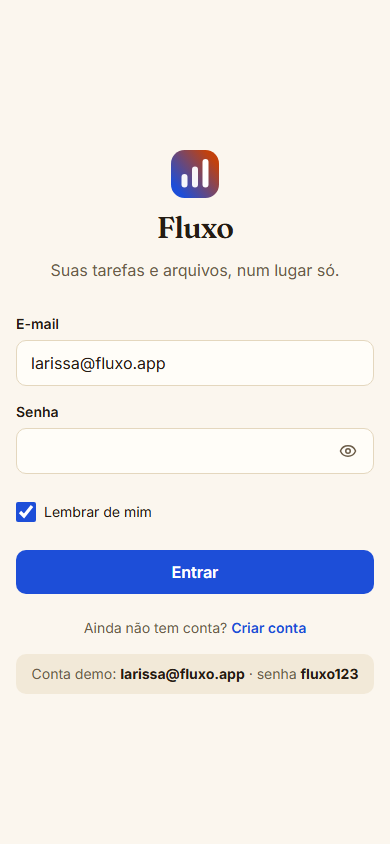
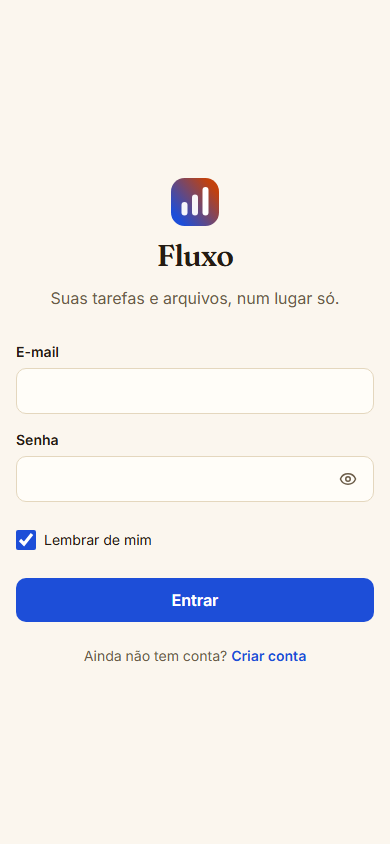
Remove dados de exemplo fixos; prepara bootstrap para banco real
- Tira seed.ts/samplePdf.ts: nada de tarefas, etiquetas ou conta demo
  pré-carregadas. Cada conta nova começa com o quadro vazio.
- AuthContext.signup cria só as 3 colunas padrão (estrutura da UI, não
  dado de exemplo) via boardApi.ensureDefaultColumns.
- LoginPage sem e-mail pré-preenchido nem aviso de conta demo.
- Testes e capturas de tela atualizados para criar conta e tarefas pela
  própria interface, em vez de depender do seed removido.

Changed region(s): [[0.0308, 0.154, 0.9846, 0.8318], [0.8615, 0.5237, 0.9231, 0.5853]]

diff --git a/tests/screenshots.spec.ts b/tests/screenshots.spec.ts
@@ -1,18 +1,61 @@
-import { test, chromium } from '@playwright/test'
+import { test, chromium, type Page } from '@playwright/test'
 import path from 'node:path'
 
 const SHOTS_DIR = path.join(process.cwd(), 'docs', 'screenshots')
 
-async function login(page: import('@playwright/test').Page) {
-  await page.goto('/entrar')
-  await page.getByLabel('E-mail').fill('larissa@fluxo.app')
-  await page.locator('input[type="password"]').fill('fluxo123')
-  await page.getByRole('button', { name: 'Entrar' }).click()
+// Não há mais conta nem dados de exemplo fixos — o teste cria uma conta e
+// preenche o quadro pela própria interface, pra gerar capturas realistas.
+async function signup(page: Page) {
+  await page.goto('/criar-conta')
+  const unique = Date.now()
+  await page.getByLabel('Nome').fill('Larissa Menezes')
+  await page.getByLabel('E-mail').fill(`larissa-${unique}@fluxo.app`)
+  await page.getByLabel('Senha', { exact: true }).fill('fluxo123')
+  await page.getByRole('button', { name: 'Criar conta' }).click()
   await page.waitForURL('**/')
-  await page.waitForTimeout(500)
 }
 
-test('captura telas mobile', async () => {
+async function createTask(page: Page, title: string) {
+  await page.goto('/quadro')
+  await page.waitForTimeout(200)
+  await page.getByRole('button', { name: 'Nova tarefa' }).click()
+  await page.getByLabel('Título', { exact: true }).fill(title)
+  await page.getByRole('button', { name: 'Criar tarefa' }).click()
+  await page.waitForURL('**/tarefa/**')
+  await page.getByRole('button', { name: 'Fechar', exact: true }).waitFor({ state: 'visible' })
+}
+
+// Fechar clicando no botão (ação direta e determinística) em vez de simular
+// Esc: logo após a navegação, o listener de teclado do Modal pode ainda não
+// ter sido registrado, então Esc às vezes chega cedo demais — comportamento
+// coberto à parte em tests/functional.spec.ts, não precisa ser reexercitado aqui.
+async function closeTaskModal(page: Page) {
+  await page.getByRole('button', { name: 'Fechar', exact: true }).click()
+  await page.waitForURL('**/quadro')
+}
+
+async function seedBoardForScreenshots(page: Page) {
+  await createTask(page, 'Relatório AV1 de IHM')
+  await page.getByLabel('Adicionar item ao checklist').fill('Escrever introdução')
+  await page.getByLabel('Adicionar item', { exact: true }).click()
+  const buffer = Buffer.from('%PDF-1.4\n%%EOF')
+  await page.setInputFiles('input[type="file"]', {
+    name: 'relatorio-rascunho.pdf',
+    mimeType: 'application/pdf',
+    buffer,
+  })
+  await page.waitForTimeout(300)
+  await closeTaskModal(page)
+
+  await createTask(page, 'Estudar normalização (BD)')
+  await closeTaskModal(page)
+
+  await createTask(page, 'Atualizar planilha de chamados do estágio')
+  await closeTaskModal(page)
+}
+
+test('captura telas mobile', async ({}, testInfo) => {
+  testInfo.setTimeout(90000) // signup + criar 3 tarefas + anexo real demora mais que o padrão de 30s
   const browser = await chromium.launch()
   const context = await browser.newContext({ viewport: { width: 390, height: 844 } })
   const page = await context.newPage()
@@ -22,7 +65,8 @@ test('captura telas mobile', async () => {
   await page.waitForTimeout(400)
   await page.screenshot({ path: path.join(SHOTS_DIR, '01-entrar.png') })
 
-  await login(page)
+  await signup(page)
+  await seedBoardForScreenshots(page)
 
   // Tela 2: Início
   await page.goto('/')
@@ -35,12 +79,11 @@ test('captura telas mobile', async () => {
   await page.screenshot({ path: path.join(SHOTS_DIR, '03-quadro.png') })
 
   // Tela 4: Detalhes da tarefa (tela cheia no celular)
-  const taskButton = page.locator('button').filter({ hasText: 'Estudar normalização' }).first()
+  const taskButton = page.locator('button').filter({ hasText: 'Relatório AV1 de IHM' }).first()
   await taskButton.click()
   await page.waitForTimeout(500)
   await page.screenshot({ path: path.join(SHOTS_DIR, '04-detalhes.png') })
-  await page.keyboard.press('Escape')
-  await page.waitForTimeout(300)
+  await closeTaskModal(page)
 
   // Tela 5: Arquivos
   await page.goto('/arquivos')
@@ -55,12 +98,14 @@ test('captura telas mobile', async () => {
   await browser.close()
 })
 
-test('captura quadro desktop', async () => {
+test('captura quadro desktop', async ({}, testInfo) => {
+  testInfo.setTimeout(90000)
   const browser = await chromium.launch()
   const context = await browser.newContext({ viewport: { width: 1440, height: 900 } })
   const page = await context.newPage()
 
-  await login(page)
+  await signup(page)
+  await seedBoardForScreenshots(page)
   await page.goto('/quadro')
   await page.waitForTimeout(500)
   await page.screenshot({ path: path.join(SHOTS_DIR, '03b-quadro-desktop.png') })

diff --git a/src/features/auth/LoginPage.tsx b/src/features/auth/LoginPage.tsx
@@ -12,7 +12,7 @@ export function LoginPage() {
   const navigate = useNavigate()
   const { login } = useAuth()
 
-  const [email, setEmail] = useState('larissa@fluxo.app')
+  const [email, setEmail] = useState('')
   const [password, setPassword] = useState('')
   const [showPassword, setShowPassword] = useState(false)
   const [remember, setRemember] = useState(true)
@@ -91,10 +91,6 @@ export function LoginPage() {
           <Link to="/criar-conta" className="font-semibold text-primary hover:underline">
             Criar conta
           </Link>
-        </p>
-
-        <p className="mt-4 rounded-btn bg-column px-3.5 py-2.5 text-center text-sm text-text-muted">
-          Conta demo: <strong className="text-text">larissa@fluxo.app</strong> · senha <strong className="text-text">fluxo123</strong>
         </p>
       </div>
     </div>

diff --git a/src/features/board/boardApi.ts b/src/features/board/boardApi.ts
@@ -2,6 +2,23 @@ import { db } from '../../db/schema'
 
 const uid = () => crypto.randomUUID()
 
+const DEFAULT_COLUMNS = ['A fazer', 'Fazendo', 'Concluído']
+
+// Garante que o quadro tenha pelo menos as colunas padrão — isso é estrutura
+// da interface, não dado de exemplo, então não depende de nenhum seed fixo.
+export async function ensureDefaultColumns() {
+  const existing = await db.columns.count()
+  if (existing > 0) return
+  await db.columns.bulkAdd(
+    DEFAULT_COLUMNS.map((name, order) => ({
+      id: uid(),
+      name,
+      order,
+      wipLimit: name === 'Fazendo' ? 3 : null,
+    }))
+  )
+}
+
 export async function createColumn(name: string) {
   const count = await db.columns.count()
   await db.columns.add({ id: uid(), name: name.trim(), order: count, wipLimit: null })

diff --git a/tests/functional.spec.ts b/tests/functional.spec.ts
@@ -1,10 +1,13 @@
 import { test, expect } from '@playwright/test'
 
+// Não há mais conta demo fixa — cada execução de teste cria a sua própria conta local.
 async function login(page: import('@playwright/test').Page) {
-  await page.goto('/entrar')
-  await page.getByLabel('E-mail').fill('larissa@fluxo.app')
-  await page.locator('input[type="password"]').fill('fluxo123')
-  await page.getByRole('button', { name: 'Entrar' }).click()
+  await page.goto('/criar-conta')
+  const unique = Date.now()
+  await page.getByLabel('Nome').fill('Usuária de Teste')
+  await page.getByLabel('E-mail').fill(`teste-${unique}@fluxo.app`)
+  await page.getByLabel('Senha', { exact: true }).fill('senha123')
+  await page.getByRole('button', { name: 'Criar conta' }).click()
   await page.waitForURL('**/')
 }
 

diff --git a/src/features/auth/AuthContext.tsx b/src/features/auth/AuthContext.tsx
@@ -1,6 +1,7 @@
 import { createContext, useContext, useEffect, useState, type ReactNode } from 'react'
 import { db } from '../../db/schema'
 import { generateSalt, hashPassword, verifyPassword, setSession, getSession, clearSession } from '../../db/auth'
+import { ensureDefaultColumns } from '../board/boardApi'
 import type { User } from '../../db/types'
 
 interface AuthContextValue {
@@ -61,6 +62,7 @@ export function AuthProvider({ children }: { children: ReactNode }) {
     }
     await db.users.add(newUser)
     await db.settings.put({ id: 'app-settings', displayName: newUser.name, theme: 'claro', fontScale: 1, reduceMotion: false })
+    await ensureDefaultColumns()
     setUser(newUser)
     setSession(id, true)
     return { ok: true }

diff --git a/src/App.tsx b/src/App.tsx
@@ -1,20 +1,10 @@
-import { useEffect, useState } from 'react'
 import { BrowserRouter } from 'react-router-dom'
-import { seedIfNeeded } from './db/seed'
 import { AuthProvider } from './features/auth/AuthContext'
 import { ToastProvider } from './components/ToastProvider'
 import { SettingsEffects } from './features/settings/SettingsEffects'
 import { AppRoutes } from './routes'
 
 export function App() {
-  const [ready, setReady] = useState(false)
-
-  useEffect(() => {
-    seedIfNeeded().then(() => setReady(true))
-  }, [])
-
-  if (!ready) return null
-
   return (
     <BrowserRouter>
       <AuthProvider>

diff --git a/README.md b/README.md
@@ -32,16 +32,15 @@ npm run build
 npm run preview
 ```
 
-## Conta demo
+## Como começar
 
-| Campo | Valor |
-|---|---|
-| E-mail | `larissa@fluxo.app` |
-| Senha | `fluxo123` |
+Não existe mais conta nem dados de exemplo pré-carregados. Na primeira vez que alguém abre o app:
 
-Na primeira execução, o app semeia automaticamente essa conta, colunas (A fazer, Fazendo, Concluído), 4 etiquetas e ~10 tarefas de exemplo com prazos relativos à data atual.
+1. Toque em **Criar conta** e cadastre nome, e-mail e senha.
+2. O quadro nasce com as 3 colunas padrão (A fazer, Fazendo, Concluído) — sem tarefas, sem etiquetas.
+3. Dali em diante é só usar: criar tarefas, etiquetas e anexos é tudo manual, do jeito que fica no seu dispositivo de verdade.
 
-⚠ **Aviso de segurança:** a autenticação é local e feita só para fins do protótipo — a senha é armazenada como hash SHA-256 com salt (WebCrypto), nunca em texto puro, mas isso **não substitui** um sistema de autenticação real de produção.
+⚠ **Aviso de segurança:** a autenticação é local e feita só para fins do protótipo — a senha é armazenada como hash SHA-256 com salt (WebCrypto), nunca em texto puro, mas isso **não substitui** um sistema de autenticação real de produção. A troca para autenticação de verdade está planejada na seção [Próximos passos: Supabase](#próximos-passos-supabase-opcional-ainda-desligado).
 
 ## Capturas de tela
 
@@ -69,7 +68,7 @@ As imagens são salvas em `docs/screenshots/`: telas 1 a 6 em viewport de celula
 src/
   components/   Botões, cartões, modal, toast, formulários — peças reutilizáveis
   features/     auth, home, board, task, files, settings
-  db/           Schema do Dexie, seed de dados de exemplo, autenticação local
+  db/           Schema do Dexie, autenticação local
   hooks/
   lib/          Utilitários de data
   styles/       tokens.css — cores, tipografia, espaçamento
